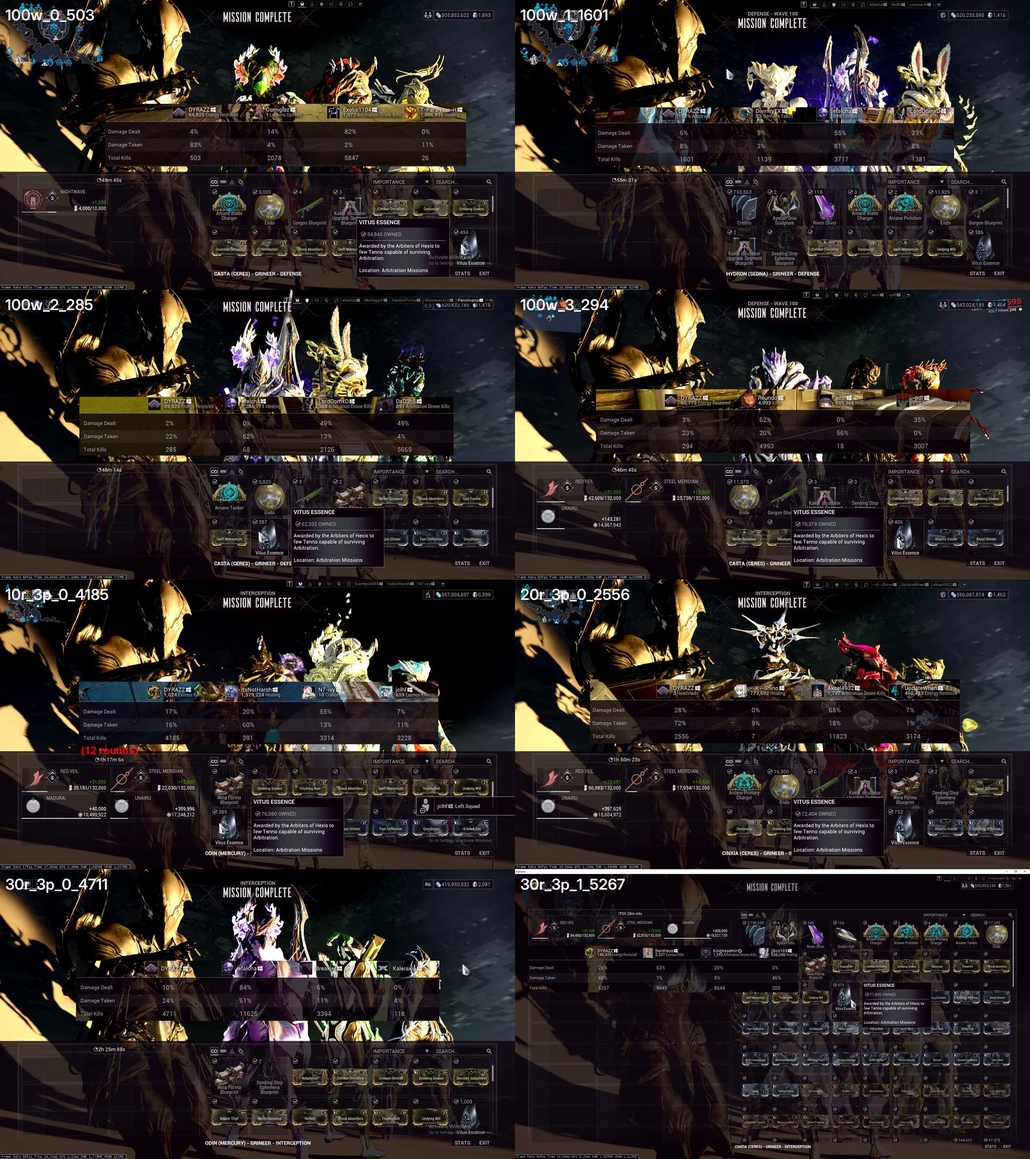
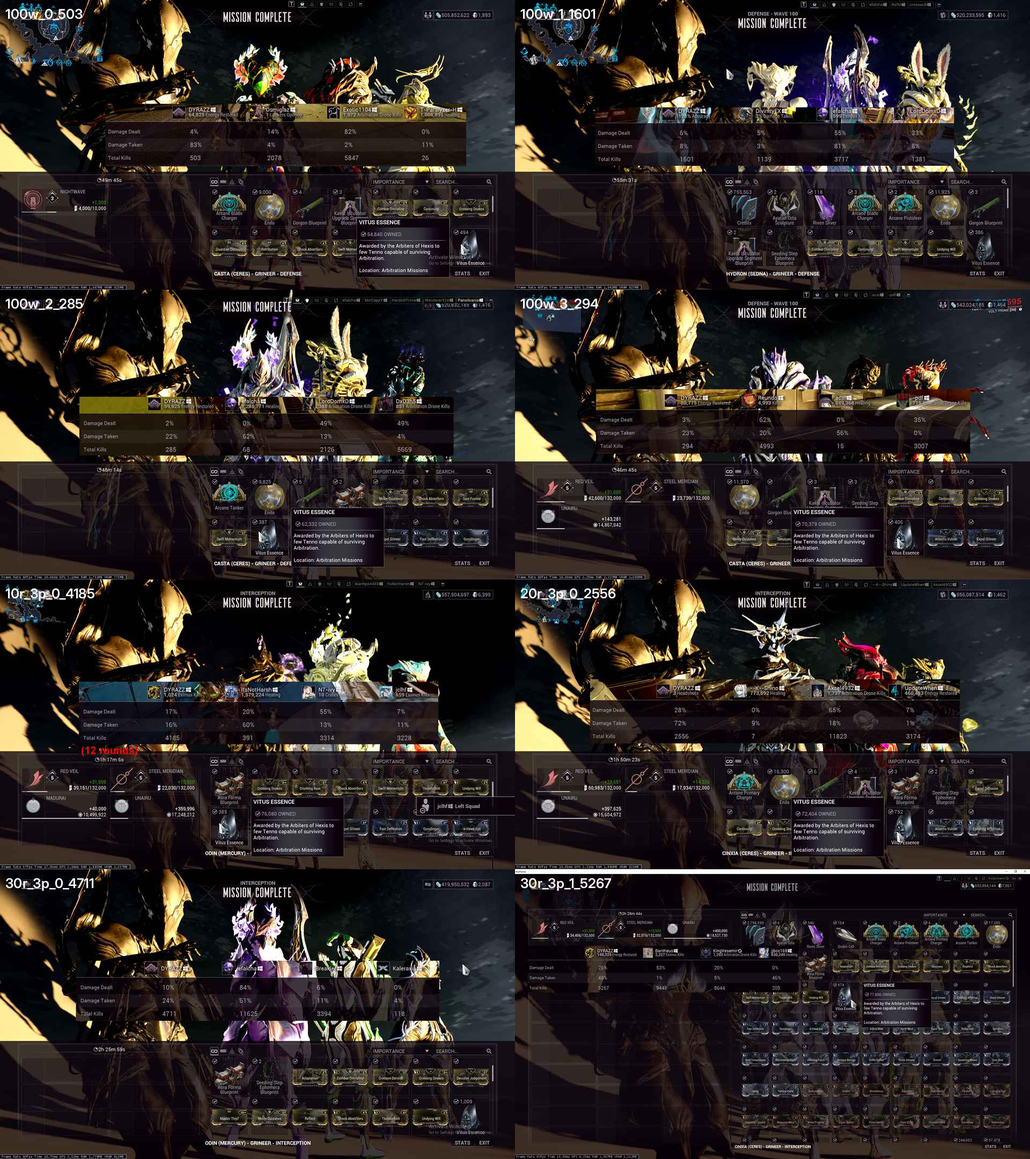
Reduce image quality, update runs

diff --git a/README.md b/README.md
@@ -1,40 +1,42 @@
 # Runs Analysis
 ### Counts on Warframes
-|       |   saryn |   mirage |   wisp |   chroma |   volt |   octavia |   total |
-|:------|--------:|---------:|-------:|---------:|-------:|----------:|--------:|
-| 100w  |      29 |       13 |     25 |       24 |      4 |         2 |      97 |
-| 200w  |       1 |        1 |      0 |        0 |      0 |         0 |       2 |
-| 10r   |       4 |        1 |      2 |        1 |      1 |         1 |      10 |
-| 20r   |       5 |        0 |      1 |        0 |      1 |         0 |       7 |
-| 30r   |       1 |        2 |      1 |        1 |      2 |         2 |       9 |
-| 40r   |       1 |        1 |      0 |        0 |      0 |         0 |       2 |
-| 50r   |       0 |        2 |      0 |        0 |      0 |         0 |       2 |
-| total |      52 |       36 |     32 |       28 |     13 |         9 |     170 |
+|       |   saryn |   mirage |   chroma |   wisp |   volt |   octavia |   rhino |   ember |   total |
+|:------|--------:|---------:|---------:|-------:|-------:|----------:|--------:|--------:|--------:|
+| 100w  |      34 |       13 |       30 |     25 |      4 |         2 |       0 |       0 |     108 |
+| 200w  |       1 |        1 |        0 |      0 |      0 |         0 |       0 |       0 |       2 |
+| 10r   |       4 |        1 |        1 |      3 |      1 |         2 |       0 |       1 |      13 |
+| 20r   |       6 |        0 |        0 |      1 |      1 |         0 |       1 |       0 |       9 |
+| 30r   |       1 |        2 |        1 |      1 |      2 |         2 |       0 |       0 |       9 |
+| 40r   |       1 |        1 |        0 |      0 |      0 |         0 |       0 |       0 |       2 |
+| 50r   |       1 |        2 |        0 |      0 |      0 |         0 |       0 |       0 |       3 |
+| total |      64 |       36 |       34 |     33 |     13 |        10 |       2 |       1 |     193 |
 
 ### Maps tiers
 | tier   |   counts |
 |:-------|---------:|
-| S      |      124 |
-| A      |       44 |
+| S      |      144 |
+| A      |       47 |
 | C      |        2 |
 
 ### Average kills
-|         |   Average Kill per 100w |   Average Kill per 10r |
-|:--------|------------------------:|-----------------------:|
-| saryn   |                    4059 |                   4741 |
-| mirage  |                    2687 |                   3483 |
-| octavia |                    1334 |                   5211 |
-| volt    |                     671 |                   2197 |
-| chroma  |                     560 |                    638 |
-| wisp    |                     329 |                    756 |
+|         | Average Kill per 100w   |   Average Kill per 10r |
+|:--------|:------------------------|-----------------------:|
+| ember   | -                       |                   4320 |
+| rhino   | -                       |                   1304 |
+| saryn   | 4107                    |                   4679 |
+| mirage  | 2687                    |                   3483 |
+| octavia | 1334                    |                   5787 |
+| chroma  | 745                     |                    638 |
+| volt    | 671                     |                   2197 |
+| wisp    | 329                     |                    810 |
 
 ### Maps
 | map     |   counts |
 |:--------|---------:|
-| cinxia  |       48 |
-| casta   |       46 |
-| seimeni |       30 |
-| odin    |       21 |
+| cinxia  |       57 |
+| casta   |       54 |
+| seimeni |       33 |
+| odin    |       24 |
 | sechura |       11 |
 | helene  |        9 |
 | hydron  |        3 |
@@ -45,9 +47,9 @@
 ### Random Stats
 | Stats        |   Value |
 |:-------------|--------:|
-| Total Rounds |     690 |
-| Total Waves  |   10100 |
-| Total Kills  |  406268 |
+| Total Rounds |     810 |
+| Total Waves  |   11200 |
+| Total Kills  |  483206 |
 
 
-Updated 2024-10-24 20:17 UTC+0
+Updated 2024-11-06 17:18 UTC+0
